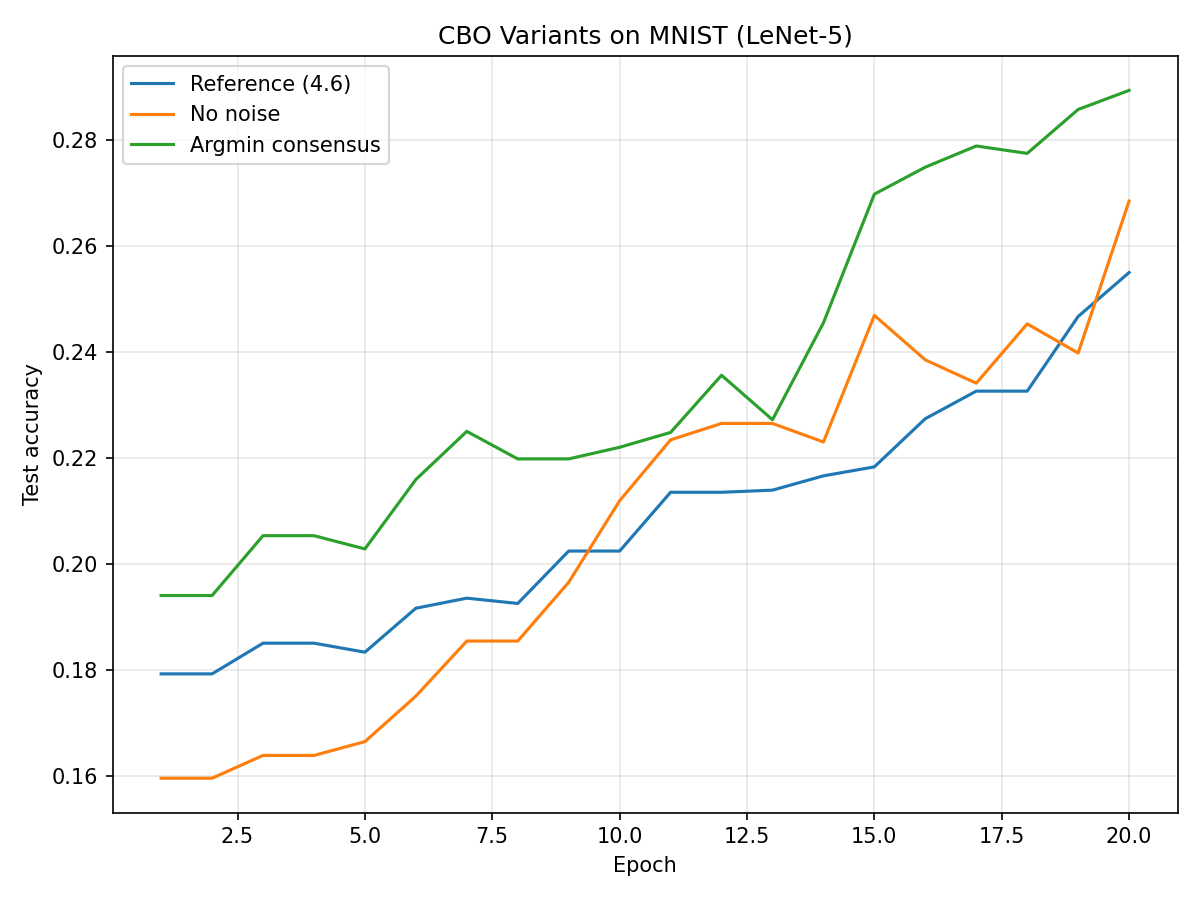
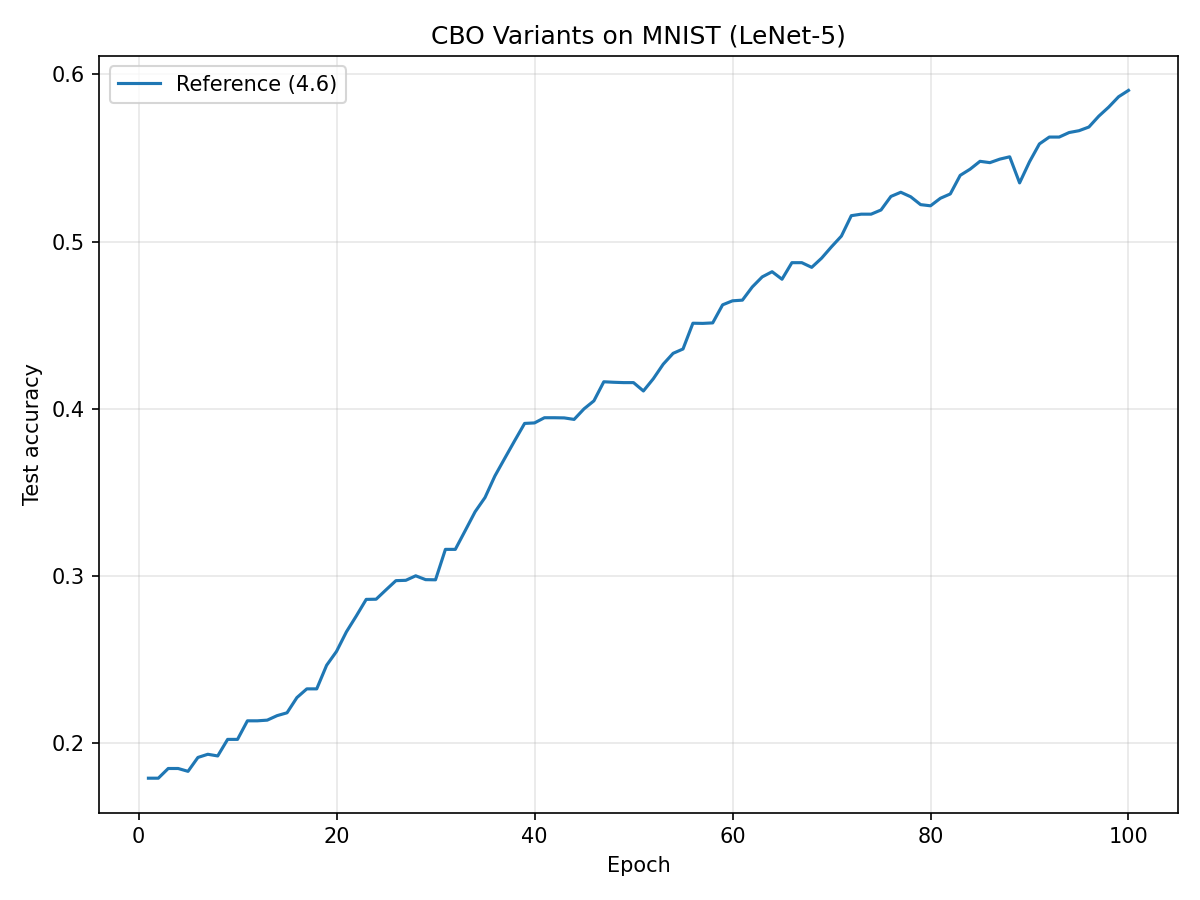
lambda test values

diff --git a/plots_accuracy_comparison/LeNet_img_analysis/cbo_lenet/figure_lenet.py b/plots_accuracy_comparison/LeNet_img_analysis/cbo_lenet/figure_lenet.py
@@ -18,7 +18,7 @@ def main():
 
     # reference case (2.1, 4.6): full model, with noise, weighted avg consensus
     f_ref = make_lenet_objective(X_train, y_train, m=M_BATCH, seed=0)
-    *_, ref_acc_hist = comp_diff_random_batch_simp(f_ref, d=D_PARAMS, lam=0.6, sigma=0.2, num_epochs=20, tol=0.0, X_test=X_test, y_test=y_test, seed=0, forward_fn=lenet_forward)
+    *_, ref_acc_hist = comp_diff_random_batch_simp(f_ref, d=D_PARAMS, lam=1.0, sigma=0.2, num_epochs=120, tol=0.0, X_test=X_test, y_test=y_test, seed=0, forward_fn=lenet_forward)
 
     # no noise variant: same model but with sigma=0
     # f_nonoise = make_lenet_objective(X_train, y_train, m=M_BATCH, seed=0)
@@ -42,7 +42,7 @@ def main():
     ax.grid(alpha=0.3)
 
     plt.tight_layout()
-    plt.savefig("figure_lenet_sig02_lam06.png", dpi=150)
+    plt.savefig("figure_lenet_sig02_120.png", dpi=150)
 
 
 if __name__ == "__main__":
